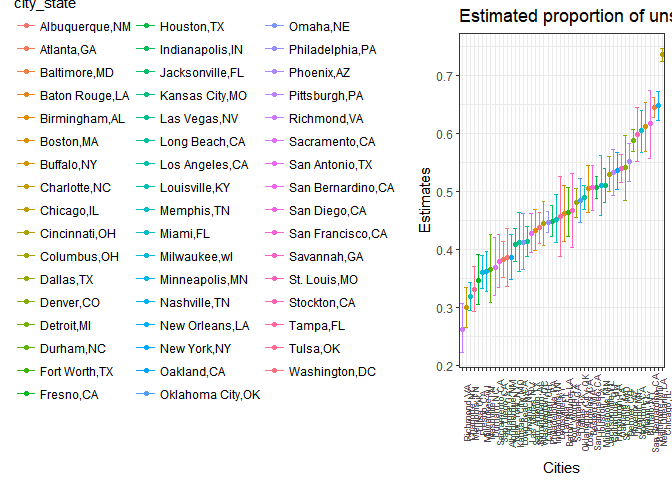
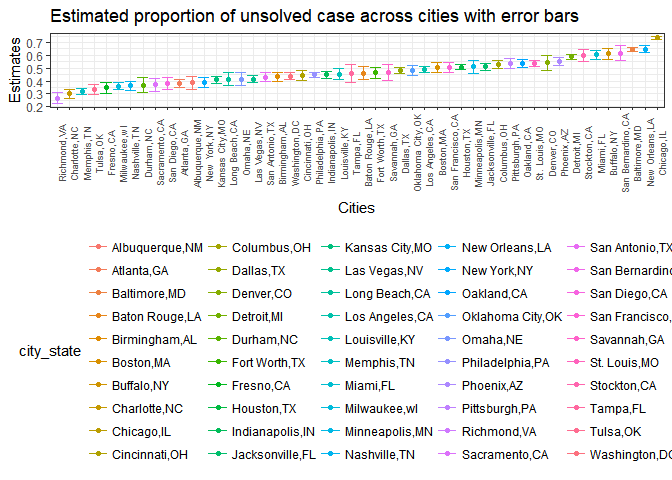
revise

diff --git a/p8105_hw5_dl3157.md b/p8105_hw5_dl3157.md
@@ -220,7 +220,7 @@ city_prop %>%
   ggplot(aes(x = reorder(city_state,estimate), y = estimate, color = city_state)) + geom_point() +
   geom_errorbar(mapping = aes(ymin = conf.low, ymax = conf.high))+
 theme_bw() +
-  theme(legend.position = "left",
+  theme(legend.position = "bottom",
         axis.text.x = element_text(angle = 90, size = 7))+
  labs(
       title = "Estimated proportion of unsolved case across cities with error bars",
